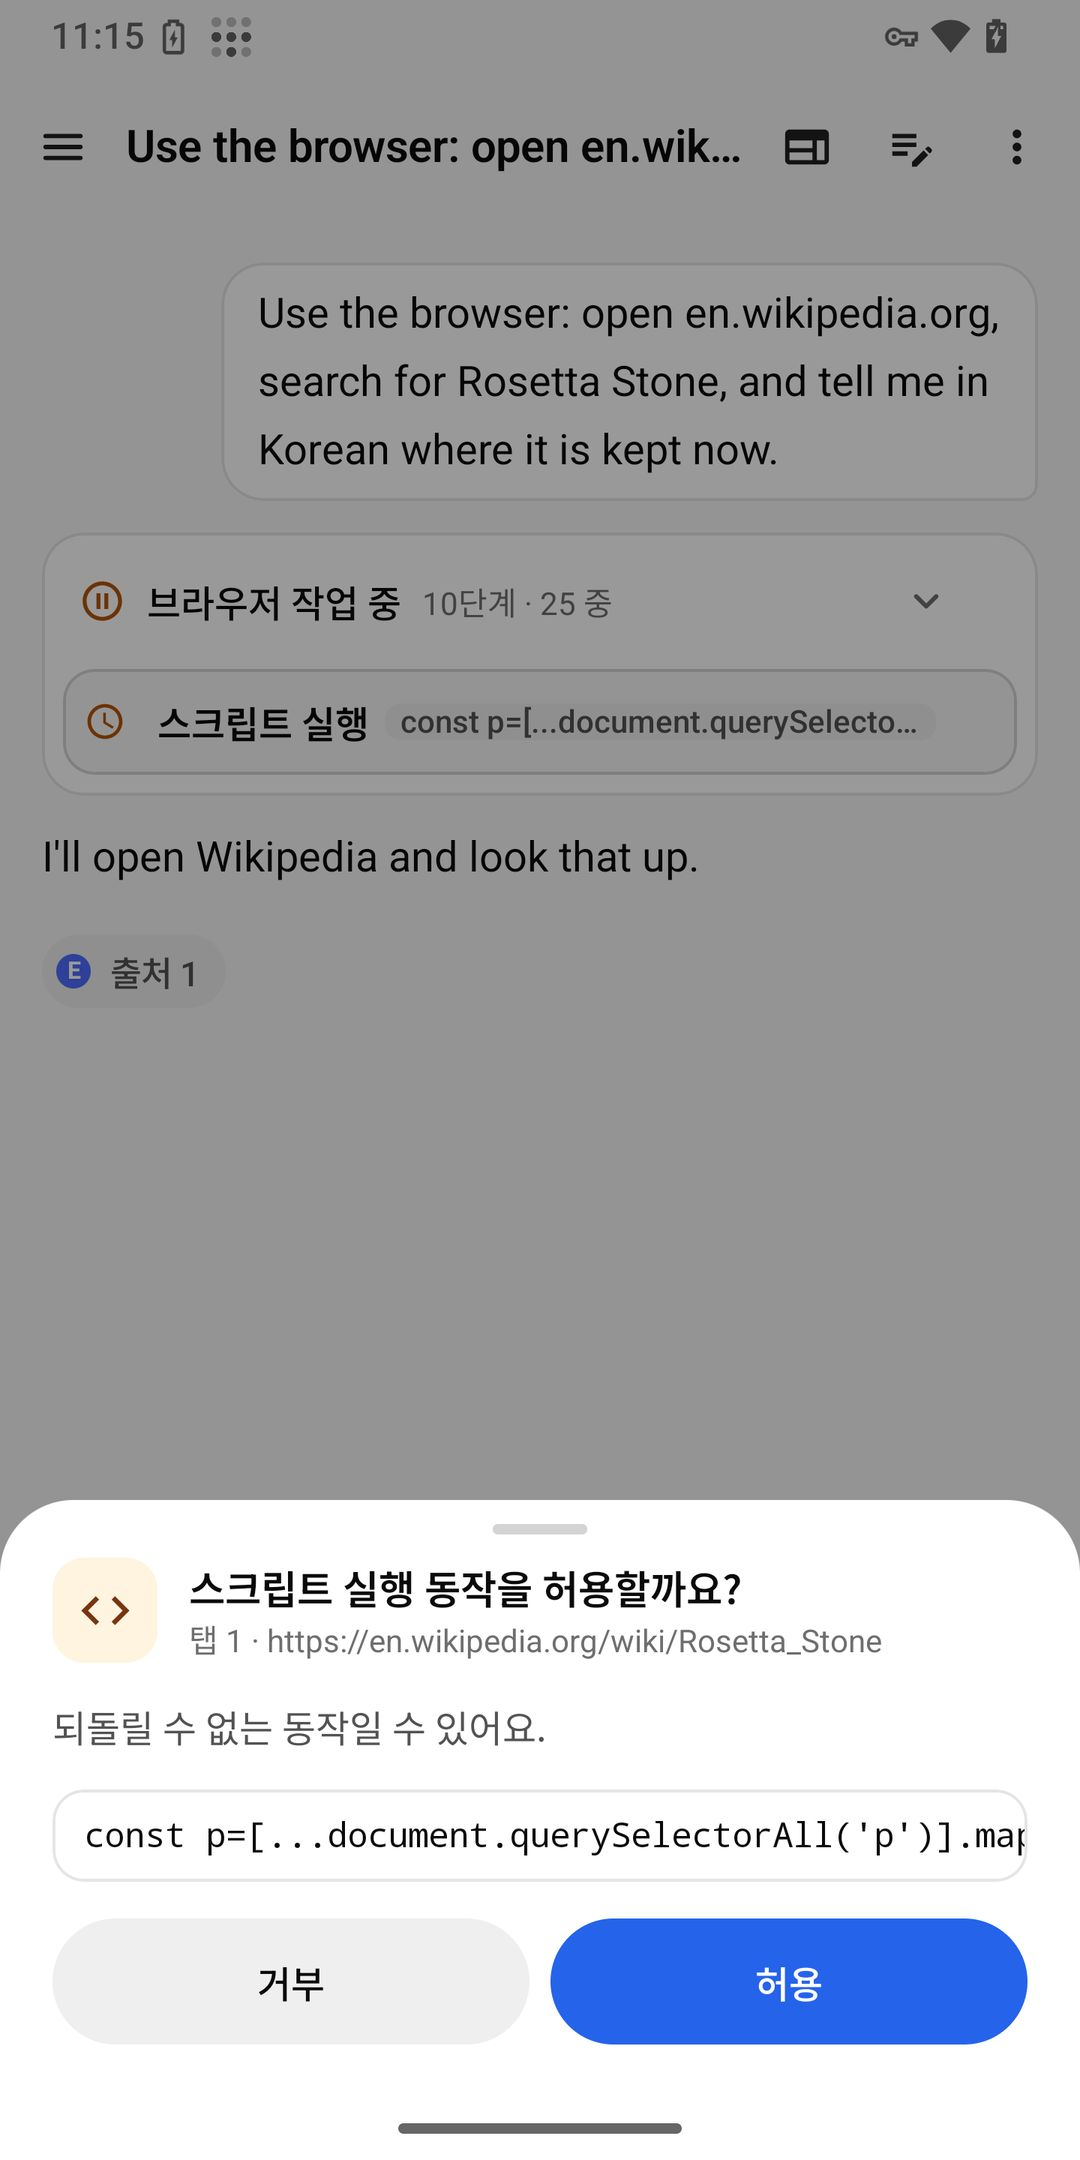
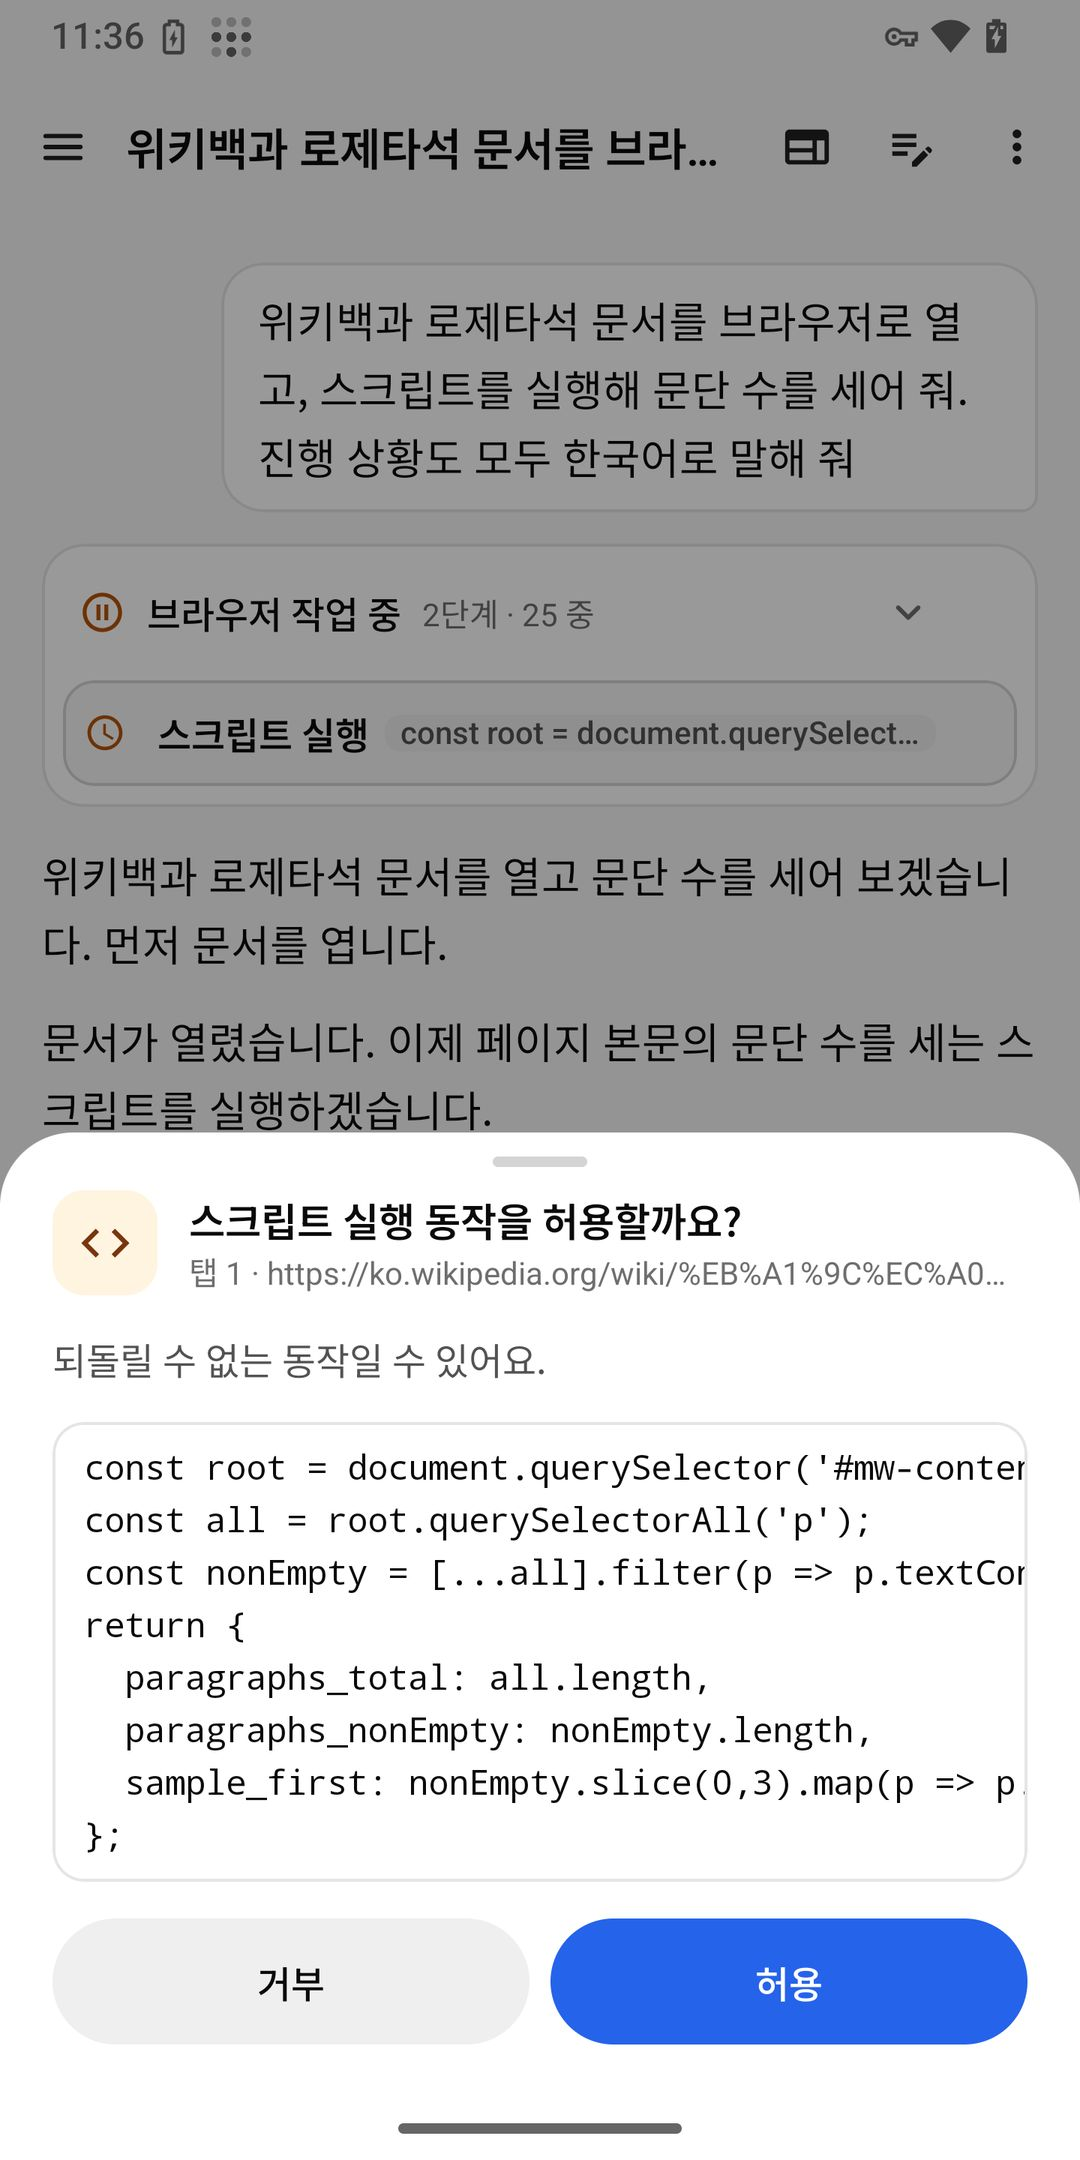
docs: Korean-prompt screenshots, correct context gauge location in README

diff --git a/README.md b/README.md
@@ -9,7 +9,7 @@
 <table>
   <tr>
     <td><img src="docs/readme/search.jpg" width="200" alt="웹 검색 답변과 출처 칩, 인용 번호"></td>
-    <td><img src="docs/readme/browser.jpg" width="200" alt="채팅 아래 절반 높이로 열린 브라우저 패널과 직접 조작 버튼"></td>
+    <td><img src="docs/readme/browser.jpg" width="200" alt="AI가 조작 중인 브라우저 패널과 직접 조작 버튼"></td>
     <td><img src="docs/readme/approval.jpg" width="200" alt="스크립트 실행 허용 확인 시트"></td>
     <td><img src="docs/readme/model-limits.jpg" width="200" alt="모델 상세의 컨텍스트 창 한도 선택 메뉴"></td>
     <td><img src="docs/readme/safety.jpg" width="200" alt="에이전트·브라우저 설정의 민감 사이트 차단"></td>
@@ -60,7 +60,7 @@
 - 답변 본문에 번호 배지로 인용이 붙고, 답변 아래 **출처** 칩을 누르면 출처 목록이 열립니다.
 
 ### 긴 대화 자동 요약
-- 화면 위 게이지가 컨텍스트 사용량을 보여 줍니다. 80%를 넘으면 다음 전송 때 오래된 기록을 자동으로 요약하고
+- 입력창 위 옵션을 열면 모델 줄 끝의 게이지가 컨텍스트 사용량을 보여 줍니다. 80%를 넘으면 다음 전송 때 오래된 기록을 자동으로 요약하고
   (최근 질문 두 개는 그대로 둡니다), 서버가 길이 초과로 거절해도 한 번 요약한 뒤 다시 보냅니다. **지금 요약**으로 직접 할 수도 있습니다.
 
 ### 문서 첨부
